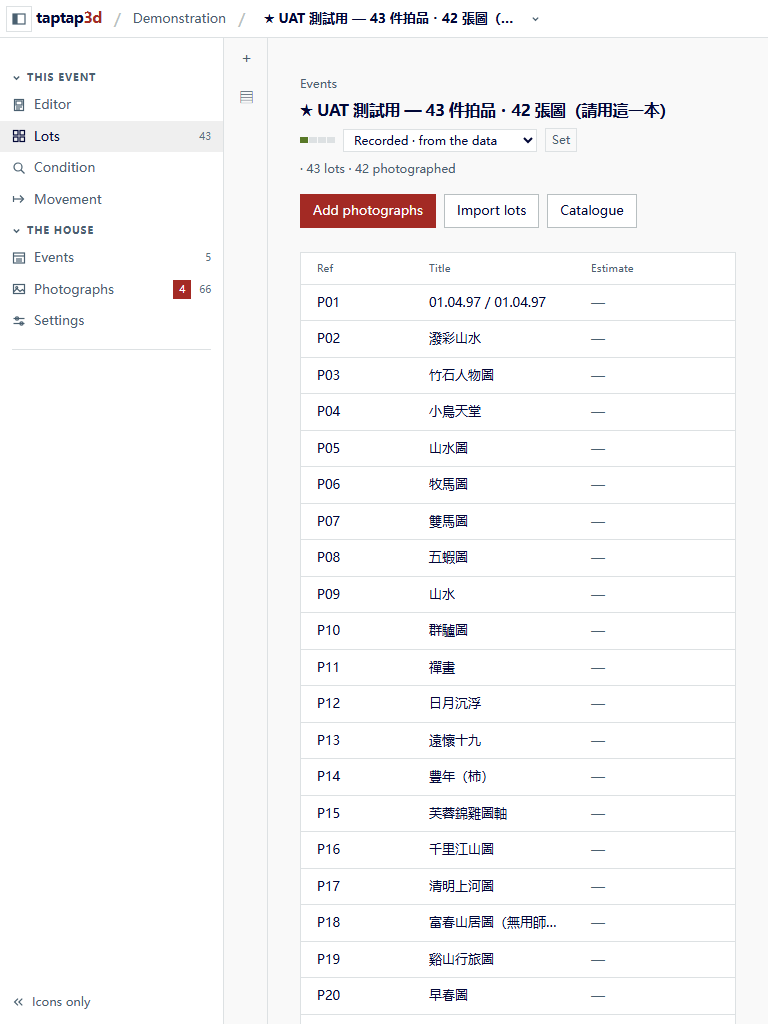
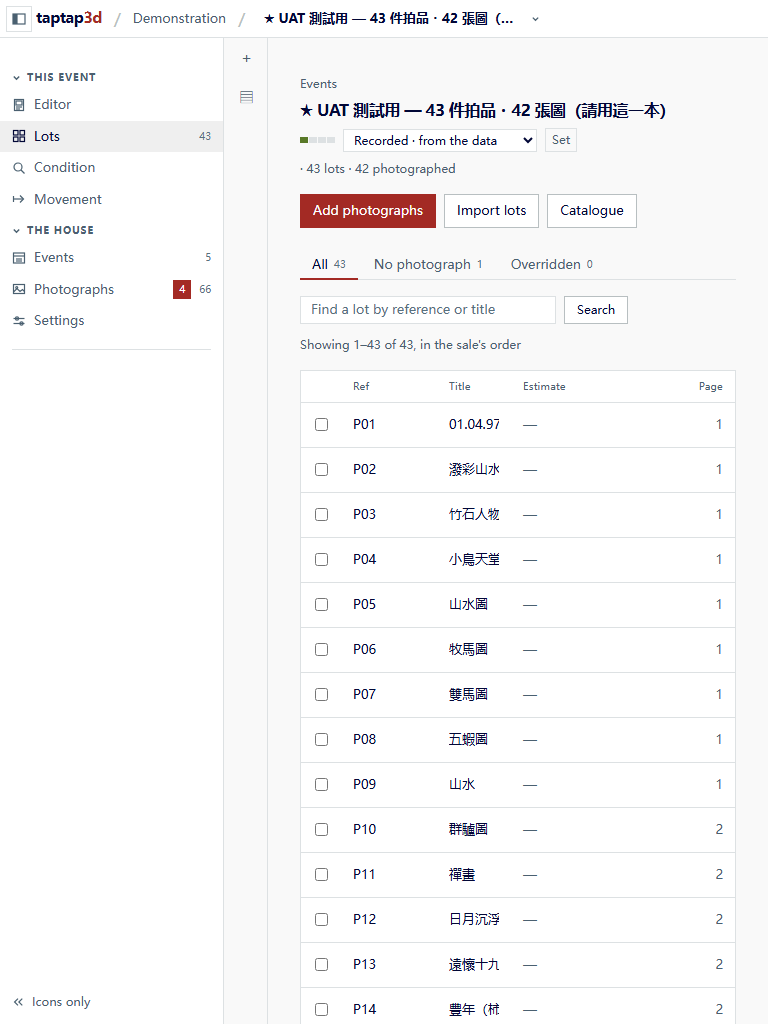
fix(ui): the inspection loop, run over the two new tranches
The sale's index and its selection bar had never been photographed at ten
widths. Three findings, all closed, and the loop came back with no clipping
anywhere.

**The tickbox changed the sum.** It is only 40px, but with four fixed columns
and the rail the title on the 768 tablet was down to fifty visible pixels —
worse than the table it replaced, because that one had no checkbox. The column
that identifies the row wins, so below 1280 the screen is now a tickbox, a
reference, a title and a price. The page a lot prints on is the editor's own
business, one press away, where the panel beside the sheet says the same
number.

**The top bar kept navigating after the app had stopped.** Below the window
this product says it needs, `main` is a sentence and the rail is gone — and
the crumbs were still there, the house's name and the switcher's "All events"
each cut to about two thirds, because three names and a wordmark do not fit in
320 pixels and never will. They follow the same boundary now. The wordmark
stays: on a screen whose whole message is "not here", it is the one thing
worth saying, because it tells the reader what refused them.

**And the driven harness was lying every other run.** The ground buttons
toggle, which is right for a person and wrong for a script: the second run
against the same sale found the plate already toned from the first, cleared
it, and reported the feature broken. Pass, fail, pass, fail — worse than
[…]

Changed region(s): [[0.375, 0.25, 0.8438, 1.0], [0.6875, 0.375, 0.75, 0.4062], [0.9062, 0.375, 0.9375, 0.4062]]

diff --git a/src/components/lots-table.tsx b/src/components/lots-table.tsx
@@ -82,12 +82,23 @@ export function LotsTable({
               <th className="w-10 px-2 py-2 font-medium">
                 <span className="sr-only">Picked</span>
               </th>
-              <th className="w-24 px-3 py-2 font-medium">Ref</th>
+              <th className="w-24 px-3 py-2 font-medium max-xl:w-20">Ref</th>
               <th className="px-3 py-2 font-medium">Title</th>
               <th className="w-44 px-3 py-2 font-medium max-xl:hidden">Maker</th>
-              <th className="w-52 px-3 py-2 font-medium max-xl:w-40">Estimate</th>
-              {/* The engine's own answer, not this screen's arithmetic. */}
-              <th className="w-16 px-3 py-2 text-right font-medium">Page</th>
+              <th className="w-52 px-3 py-2 font-medium max-xl:w-32">Estimate</th>
+              {/* The engine's own answer, not this screen's arithmetic — and
+                  the next thing to leave after Maker. THE TICKBOX CHANGED THE
+                  SUM: it is only 40px, but the inspection measured the title
+                  at fifty visible pixels on the 768 tablet once it was there,
+                  because four fixed columns and a rail leave nothing. The
+                  column that identifies the row wins every time, so at narrow
+                  widths this screen is a tickbox, a reference, a title and a
+                  price — and the page a lot prints on is the editor's own
+                  business, one press away, where the panel beside the sheet
+                  says the same number. */}
+              <th className="w-16 px-3 py-2 text-right font-medium max-xl:hidden">
+                Page
+              </th>
               <th className="w-20 px-3 py-2 text-right font-medium max-xl:hidden">
                 Photos
               </th>
@@ -163,7 +174,7 @@ export function LotsTable({
                       checkbox arrived, and a spec that counts is a spec that
                       breaks on a layout decision. */}
                   <td
-                    className="px-3 py-2 text-right text-muted"
+                    className="px-3 py-2 text-right text-muted max-xl:hidden"
                     data-numeric
                     data-page={lot.page ?? ""}
                   >

diff --git a/src/components/top-bar.tsx b/src/components/top-bar.tsx
@@ -93,6 +93,20 @@ export function TopBar({
         taptap<span className="text-seal">3d</span>
       </p>
 
+      {/* ── THE CRUMBS FOLLOW THE APP'S OWN BOUNDARY ────────────────────────
+          Below the window this product says it needs, `main` is a sentence and
+          the rail is gone — so there is nothing to navigate, and a switcher
+          over a screen that is not rendering is chrome for nothing. The
+          inspection loop found it as the last two clip warnings on the whole
+          product: at 320 the house's name and the switcher's "All events" were
+          each cut to about two thirds, because three names and a wordmark do
+          not fit in 320 pixels and never will.
+
+          The wordmark stays. It is the one thing worth saying on a screen
+          whose whole message is "not here" — it tells the reader what refused
+          them. `too-small` is defined once in src/app/globals.css, beside the
+          reason. */}
+      <div className="flex min-w-0 items-center gap-3 too-small:hidden">
       {/* THE HOUSE. Text today, the org switcher's seat tomorrow — see above. */}
       <span aria-hidden="true" className="shrink-0 text-ruleStrong">
         /
@@ -141,6 +155,7 @@ export function TopBar({
           />
         </>
       )}
+      </div>
     </div>
   );
 }

diff --git a/test/e2e/lots-index.spec.ts b/test/e2e/lots-index.spec.ts
@@ -162,9 +162,19 @@ test("a run of lots is picked with the pointer and moved as one gesture", async 
   await expect(page.getByRole("button", { name: "Move 5" })).toBeHidden({
     timeout: 60_000,
   });
-  await page.goto(`${eventUrl}/movement`);
-  await expect(page.getByText(crate).first()).toBeVisible();
-  await expect(page.getByRole("row", { name: new RegExp(crate) })).toHaveCount(5);
+  // RETRIED OVER THE NAVIGATION, not just the assertion. The bar hiding means
+  // the action returned ok, so the rows are written — but the register is a
+  // different screen reading a different query, and under a full suite's load
+  // this walked over before its own revalidation had landed and accused a
+  // move that had plainly happened. The same shape as place.spec.ts's
+  // `SETTLED`, and for the same reason.
+  await expect(async () => {
+    await page.goto(`${eventUrl}/movement`);
+    await expect(page.getByText(crate).first()).toBeVisible({ timeout: 5_000 });
+    await expect(page.getByRole("row", { name: new RegExp(crate) })).toHaveCount(5, {
+      timeout: 5_000,
+    });
+  }).toPass({ timeout: 60_000 });
   await page.screenshot({ path: shot("98-lots-moved") });
 
   // THE SELECTION CANNOT OUTLIVE ITS ROWS. Page two indexes different lots at
